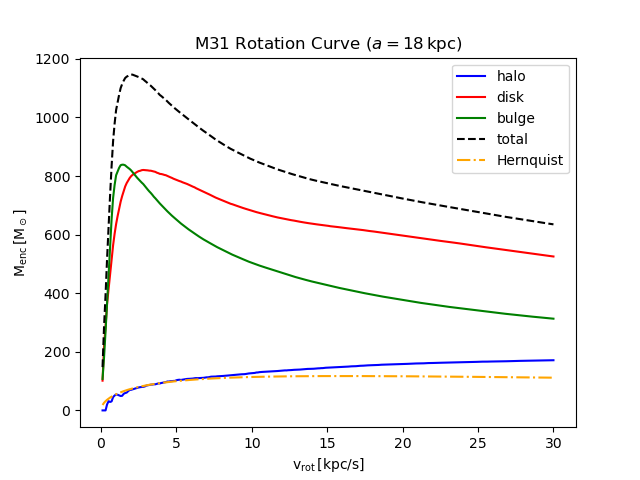
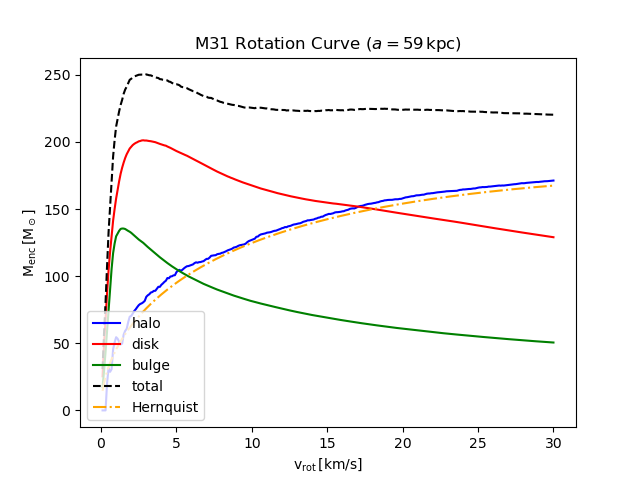
I wanted to show my code to my roommate and I realized that I messed up the code while documenting it. If this incurs a late penalty, c'est la vie. I do care about my grade, but I care more about the code's functionality

diff --git a/Homeworks/Homework5/HW5.py b/Homeworks/Homework5/HW5.py
@@ -68,7 +68,7 @@ class MassProfile:
                                                                     # center of mass position
             rIndices = np.where(R < r_i*u.kpc) # removes particles with radii larger than the
                                                # iteration radius r_i
-            m_enc[i] = np.sum(self.m[rIndices]) # sums all the masses of a given particle type
+            m_enc[i] = np.sum(m[rIndices]) # sums all the masses of a given particle type
                                                 # enclosed in r_i
         m_enc = m_enc*10**10*u.Msun # Apply units before returning
         return m_enc
@@ -164,10 +164,10 @@ def main() -> None:
     M31 = MassProfile('M31',0)
     M33 = MassProfile('M33',0)
 
-    aMW,aM31,aM33 = 18,16,11 # Scale radii
-    MWhalo = MW.MassEnclosed(1,np.array([30])) # MW halo mass enclosed in 30 kpc
-    M31halo = M31.MassEnclosed(1,np.array([30])) # M31 halo mass enclosed in 30 kpc
-    M33halo = M33.MassEnclosed(1,np.array([30])) # M33 halo mass enclosed in 30 kpc
+    aMW,aM31,aM33 = 61,59,25 # Scale radii
+    MWhalo = MW.MassEnclosed(1,np.array([1000])) # MW halo mass enclosed in 30 kpc
+    M31halo = M31.MassEnclosed(1,np.array([1000])) # M31 halo mass enclosed in 30 kpc
+    M33halo = M33.MassEnclosed(1,np.array([1000])) # M33 halo mass enclosed in 30 kpc
     
     
     ### QUESTION 8: Milky Way Mass Profile
@@ -182,7 +182,7 @@ def main() -> None:
     # plots the Hernquist mass profile
     axMW.plot(r,MW.HernquistMass(r,aMW,MWhalo),c='orange',label='Hernquist',linestyle='dashdot')
     axMW.set(
-        title=r'$\text{MW Mass Profile}\,\,(a=%i\,\text{kpc})$'.replace(r'%i',str(a)),
+        title=r'$\text{MW Mass Profile}\,\,(a=%i\,\text{kpc})$'.replace(r'%i',str(aMW)),
         xlabel=r"$\text{R}_\text{com}\,[\text{kpc}]$",
         ylabel=r"$\text{M}_\text{enc}\,[\text{M}_\odot]$"
     )
@@ -202,7 +202,7 @@ def main() -> None:
     # plots the Hernquist mass profile
     axM31.plot(r,M31.HernquistMass(r,aM31,M31halo),c='orange',label='Hernquist',linestyle='dashdot')
     axM31.set(
-        title=r'$\text{M31 Mass Profile}\,\,(a=%i\,\text{kpc})$'.replace(r'%i',str(a)),
+        title=r'$\text{M31 Mass Profile}\,\,(a=%i\,\text{kpc})$'.replace(r'%i',str(aM31)),
         xlabel=r"$\text{R}_\text{com}\,[\text{kpc}]$",
         ylabel=r"$\text{M}_\text{enc}\,[\text{M}_\odot]$"
     )
@@ -222,7 +222,7 @@ def main() -> None:
     # plots the Hernquist mass profile
     axM33.plot(r,M33.HernquistMass(r,aM33,M33halo),c='orange',label='Hernquist',linestyle='dashdot')
     axM33.set(
-        title=r'$\text{M33 Mass Profile}\,\,(a=%i\,\text{kpc})$'.replace(r'%i',str(a)),
+        title=r'$\text{M33 Mass Profile}\,\,(a=%i\,\text{kpc})$'.replace(r'%i',str(aM33)),
         xlabel=r"$\text{R}_\text{com}\,[\text{kpc}]$",
         ylabel=r"$\text{M}_\text{enc}\,[\text{M}_\odot]$"
     )
@@ -242,7 +242,7 @@ def main() -> None:
     # plots the rotation curve given the Hernquist mass profile
     axMWv.plot(r,MW.HernquistVCirc(r,aMW,MWhalo),c='orange',label='Hernquist',linestyle='dashdot')
     axMWv.set(
-        title=r'$\text{MW Rotation Curve}\,\,(a=%i\,\text{kpc})$'.replace(r'%i',str(a)),
+        title=r'$\text{MW Rotation Curve}\,\,(a=%i\,\text{kpc})$'.replace(r'%i',str(aMW)),
         xlabel=r"$\text{v}_\text{rot}\,[\text{km/s}]$",
         ylabel=r"$\text{M}_\text{enc}\,[\text{M}_\odot]$"
     )
@@ -261,7 +261,7 @@ def main() -> None:
     # plots the rotation curve given the Hernquist mass profile
     axM31v.plot(r,M31.HernquistVCirc(r,aM31,M31halo),c='orange',label='Hernquist',linestyle='dashdot')
     axM31v.set(
-        title=r'$\text{M31 Rotation Curve}\,\,(a=%i\,\text{kpc})$'.replace(r'%i',str(a)),
+        title=r'$\text{M31 Rotation Curve}\,\,(a=%i\,\text{kpc})$'.replace(r'%i',str(aM31)),
         xlabel=r"$\text{v}_\text{rot}\,[\text{km/s}]$",
         ylabel=r"$\text{M}_\text{enc}\,[\text{M}_\odot]$"
     )
@@ -280,7 +280,7 @@ def main() -> None:
     # plots the rotation curve given the Hernquist mass profile
     axM33v.plot(r,M33.HernquistVCirc(r,aM33,M33halo),c='orange',label='Hernquist',linestyle='dashdot')
     axM33v.set(
-        title=r'$\text{M33 Rotation Curve}\,\,(a=%i\,\text{kpc})$'.replace(r'%i',str(a)),
+        title=r'$\text{M33 Rotation Curve}\,\,(a=%i\,\text{kpc})$'.replace(r'%i',str(aM33)),
         xlabel=r"$\text{v}_\text{rot}\,[\text{km/s}]$",
         ylabel=r"$\text{M}_\text{enc}\,[\text{M}_\odot]$"
     )
